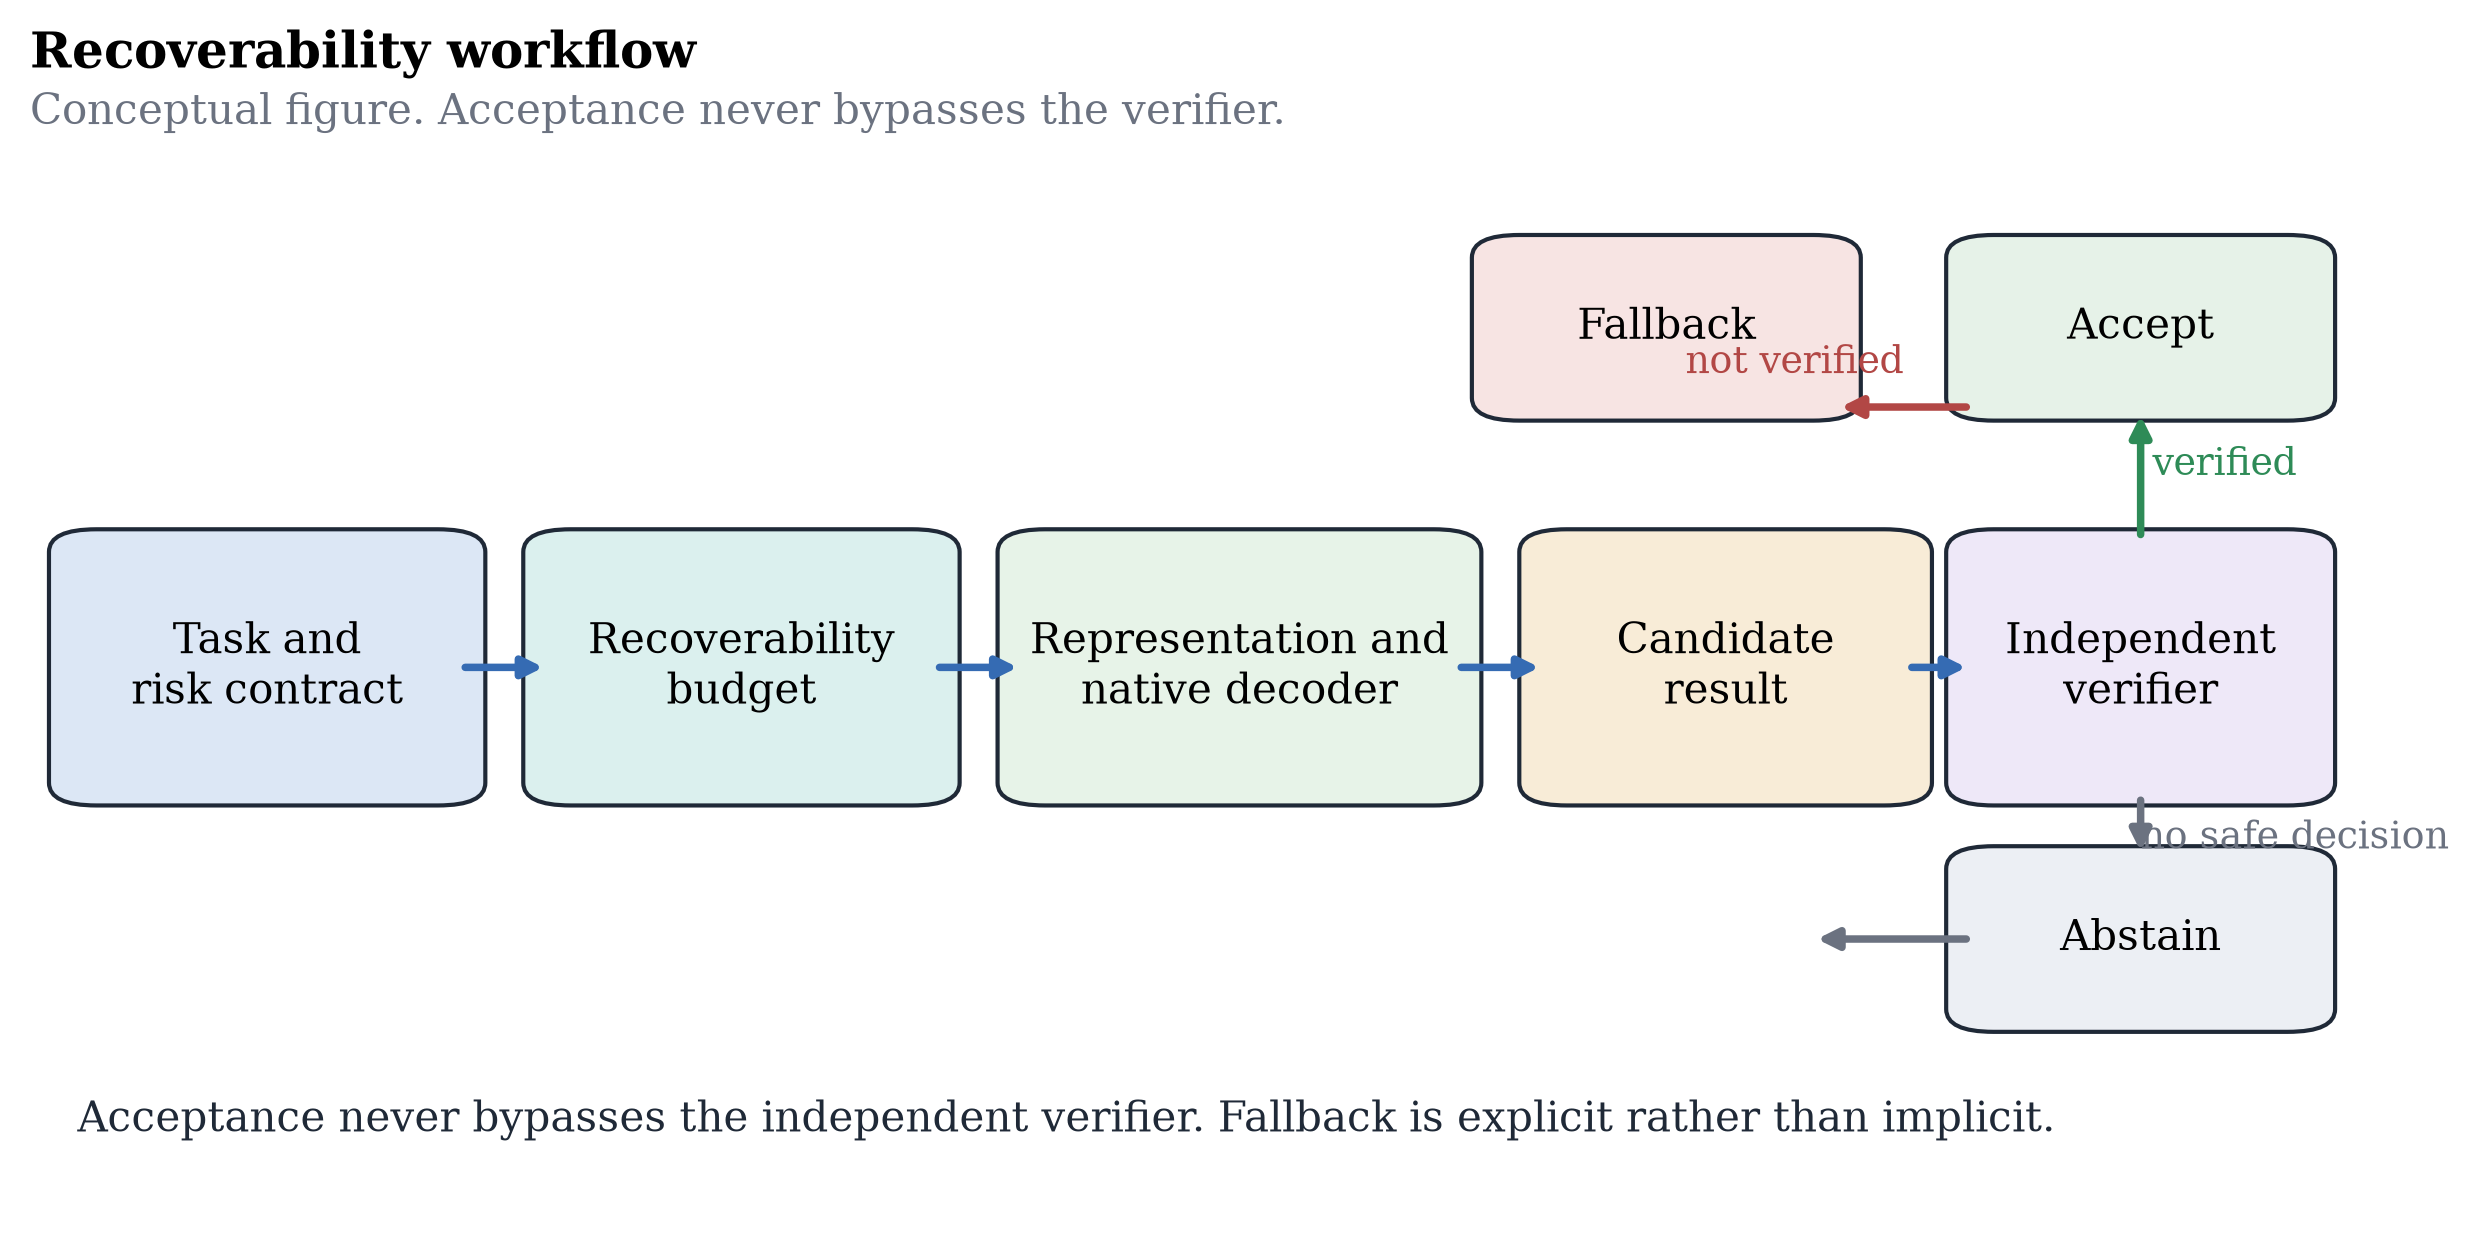
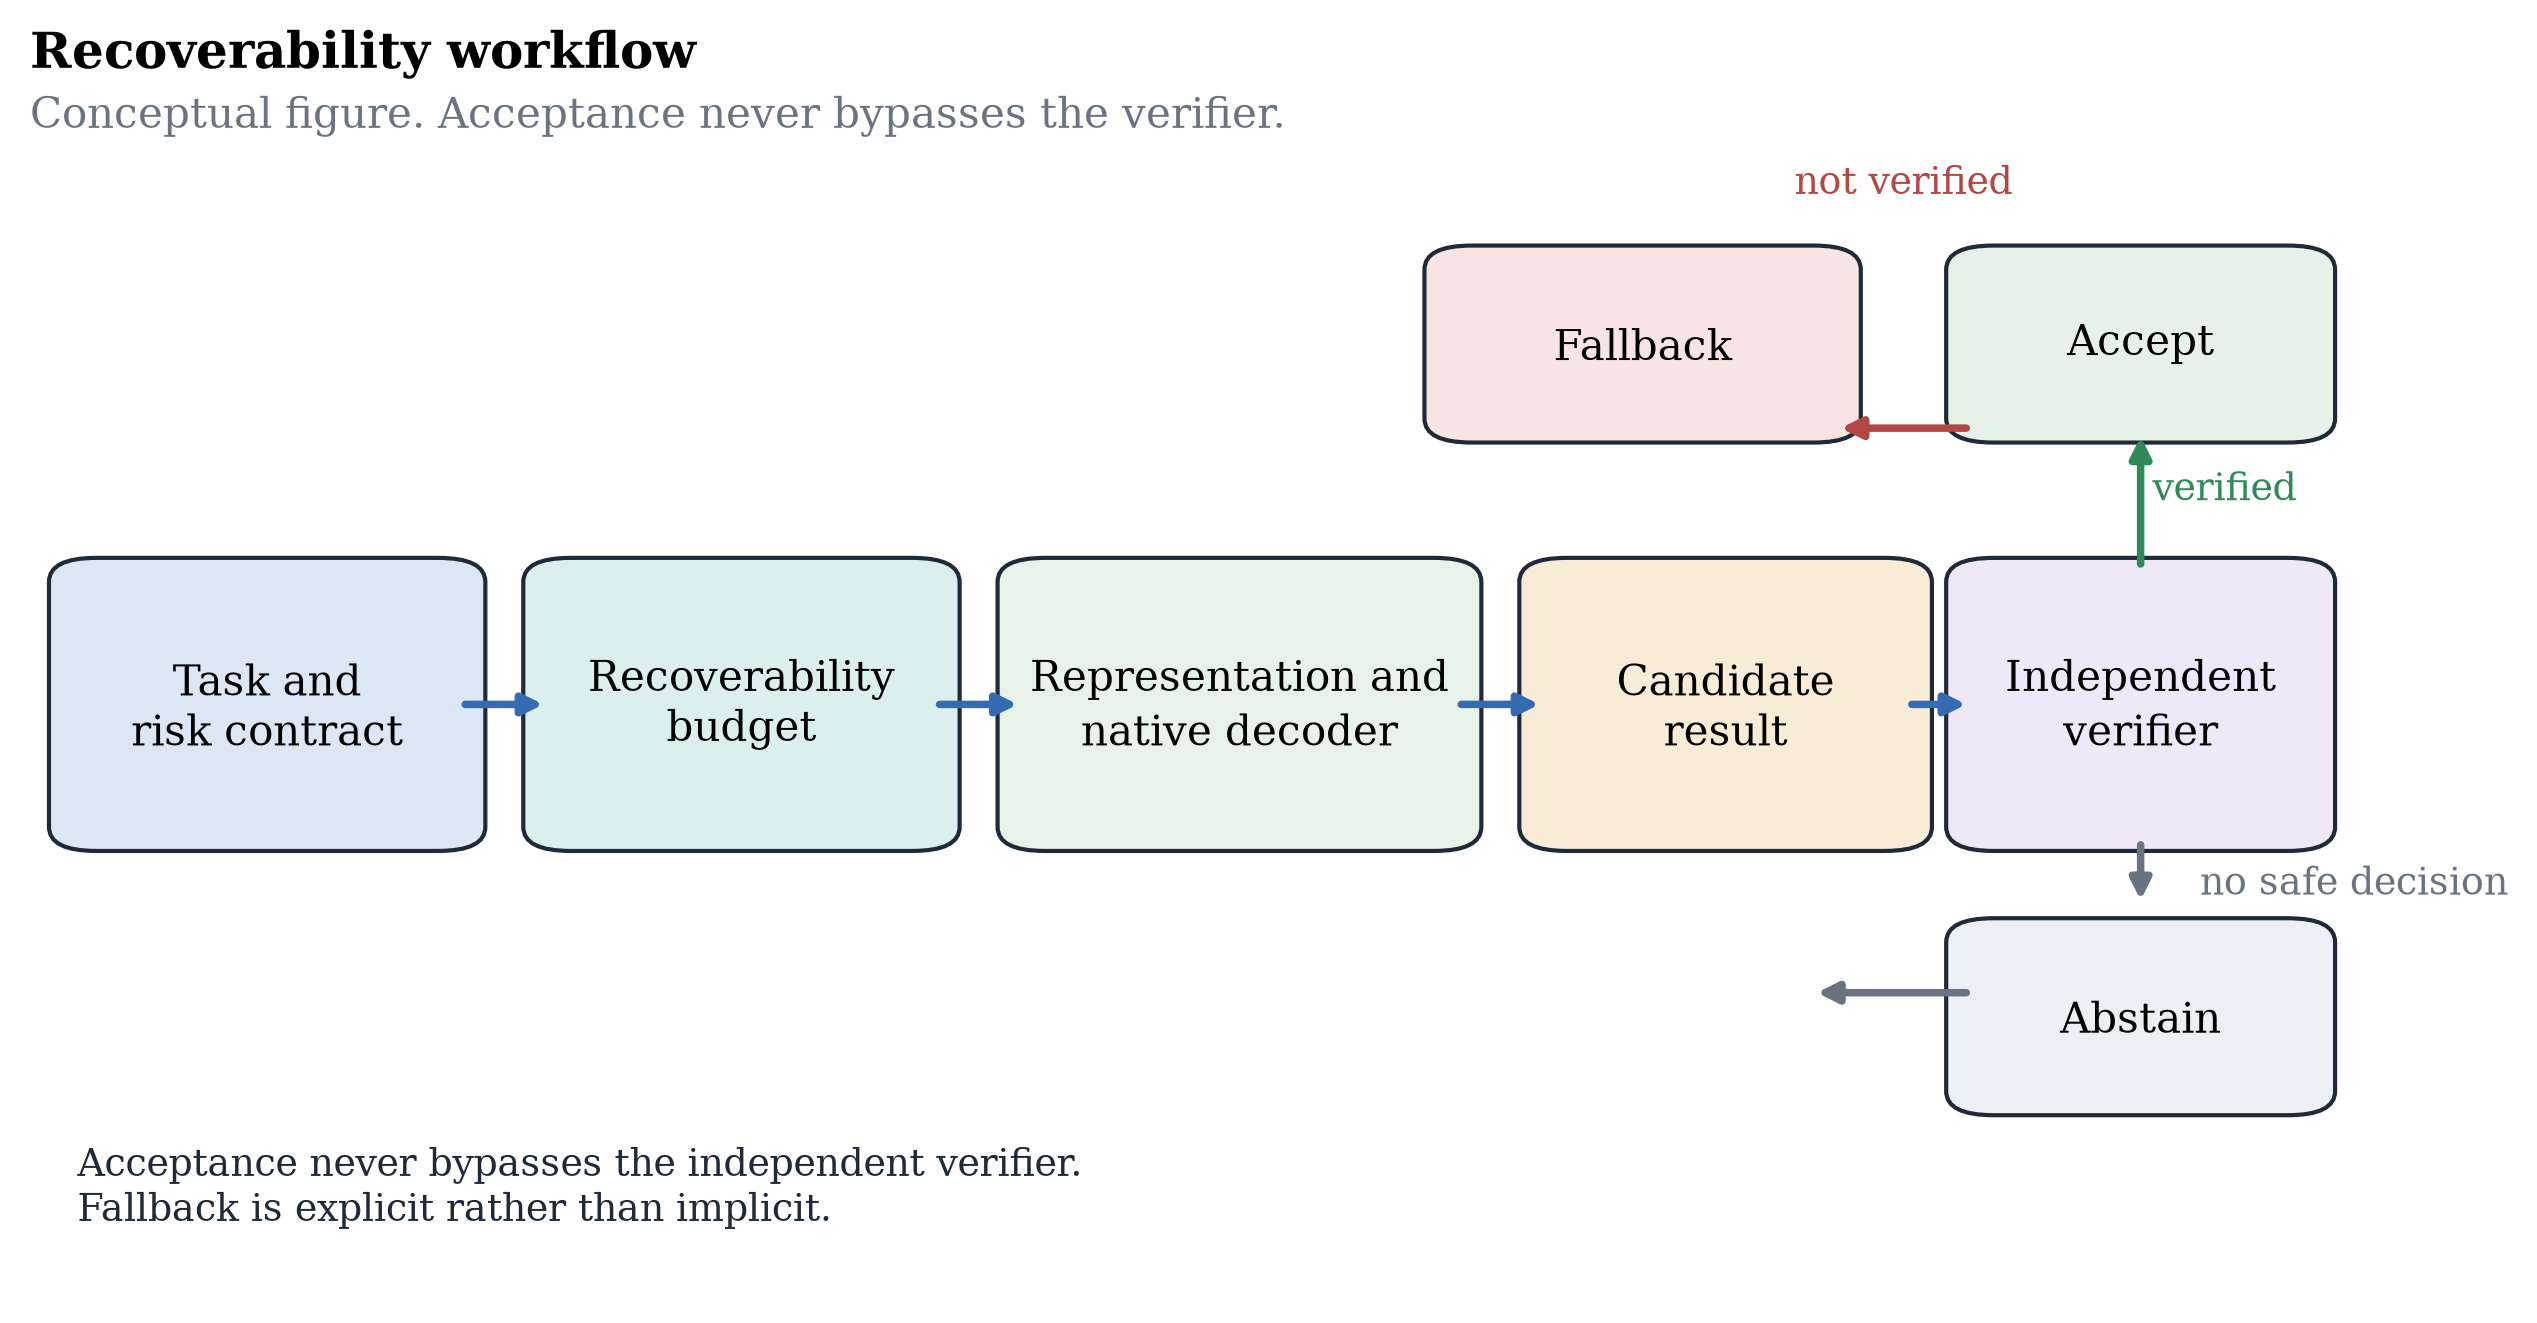
paper: finalize preprint figure spacing and conflict statement

diff --git a/scripts/build_manuscript_figures.py b/scripts/build_manuscript_figures.py
@@ -77,7 +77,7 @@ def load_csv(path: Path) -> list[dict[str, str]]:
 
 
 def figure1_budget_map() -> None:
-    fig, ax = plt.subplots(figsize=(10.2, 4.9))
+    fig, ax = plt.subplots(figsize=(10.2, 5.2))
     ax.set_axis_off()
 
     ax.text(0.0, 1.02, "Recoverability workflow", transform=ax.transAxes, fontsize=12, fontweight="bold")
@@ -96,8 +96,8 @@ def figure1_budget_map() -> None:
         (0.64, 0.38, 0.15, 0.22, "Candidate\nresult", "#F8ECD7"),
         (0.82, 0.38, 0.14, 0.22, "Independent\nverifier", "#EEE8F8"),
         (0.82, 0.72, 0.14, 0.14, "Accept", "#E6F2E8"),
-        (0.82, 0.18, 0.14, 0.14, "Abstain", "#ECEFF4"),
-        (0.62, 0.72, 0.14, 0.14, "Fallback", "#F7E4E3"),
+        (0.82, 0.16, 0.14, 0.14, "Abstain", "#ECEFF4"),
+        (0.60, 0.72, 0.16, 0.14, "Fallback", "#F7E4E3"),
     ]
     for x, y, w, h, label, color in boxes:
         ax.add_patch(
@@ -112,7 +112,16 @@ def figure1_budget_map() -> None:
                 transform=ax.transAxes,
             )
         )
-        ax.text(x + w / 2, y + h / 2, label, transform=ax.transAxes, ha="center", va="center", fontsize=10)
+        ax.text(
+            x + w / 2,
+            y + h / 2,
+            label,
+            transform=ax.transAxes,
+            ha="center",
+            va="center",
+            fontsize=10,
+            linespacing=1.2,
+        )
 
     arrows = [
         ((0.18, 0.49), (0.22, 0.49), COLORS["blue"]),
@@ -134,15 +143,18 @@ def figure1_budget_map() -> None:
             arrowprops=dict(arrowstyle="-|>", lw=1.8, color=color, shrinkA=2, shrinkB=2),
         )
 
-    ax.text(0.895, 0.66, "verified", transform=ax.transAxes, fontsize=9, color=COLORS["green"], ha="left")
-    ax.text(0.79, 0.75, "not verified", transform=ax.transAxes, fontsize=9, color=COLORS["red"], ha="right")
-    ax.text(0.89, 0.33, "no safe decision", transform=ax.transAxes, fontsize=9, color=COLORS["gray"], ha="left")
+    label_box = dict(boxstyle="round,pad=0.15", facecolor="white", edgecolor="none", alpha=0.95)
+    ax.text(0.895, 0.66, "verified", transform=ax.transAxes, fontsize=9, color=COLORS["green"], ha="left", bbox=label_box)
+    ax.text(0.79, 0.915, "not verified", transform=ax.transAxes, fontsize=9, color=COLORS["red"], ha="center", bbox=label_box)
+    ax.text(0.915, 0.34, "no safe decision", transform=ax.transAxes, fontsize=9, color=COLORS["gray"], ha="left", va="center", bbox=label_box)
     ax.text(
         0.02,
-        0.08,
-        "Acceptance never bypasses the independent verifier. Fallback is explicit rather than implicit.",
+        0.06,
+        "Acceptance never bypasses the independent verifier.\nFallback is explicit rather than implicit.",
         transform=ax.transAxes,
         color=COLORS["dark"],
+        fontsize=9,
+        linespacing=1.2,
     )
 
     save_figure(fig, "figure1_budget_map")
@@ -355,9 +367,17 @@ def figure5_escalation() -> None:
     break_even = map_fast / bcf
     cascade = map_fast + (1.0 - exit_rate) * bcf
 
-    fig, axes = plt.subplots(1, 2, figsize=(9.4, 4.4))
-    fig.suptitle("Sequential escalation economics", x=0.06, ha="left", fontsize=12, fontweight="bold")
-    fig.text(0.06, 0.92, "Fast-path probe cost is measured on the same runtime and hardware as the fallback arm.", color=COLORS["gray"])
+    fig, axes = plt.subplots(1, 2, figsize=(9.6, 4.8))
+    fig.subplots_adjust(left=0.12, right=0.98, bottom=0.16, top=0.72, wspace=0.38)
+    fig.suptitle("Sequential escalation economics", x=0.06, y=0.975, ha="left", fontsize=11.5, fontweight="bold")
+    fig.text(
+        0.06,
+        0.845,
+        "Fast-path probe cost is measured on the same runtime and hardware\nas the fallback arm.",
+        color=COLORS["gray"],
+        fontsize=9,
+        linespacing=1.2,
+    )
 
     panels = [
         (
@@ -377,7 +397,7 @@ def figure5_escalation() -> None:
     ]
 
     for ax, title, values, ylabel, ymax in panels:
-        ax.set_title(title, loc="left")
+        ax.set_title(title, loc="left", pad=10)
         y_positions = list(range(len(values)))[::-1]
         for pos, (label, value, color) in zip(y_positions, values):
             ax.hlines(pos, 0, value, color=color, linewidth=3)